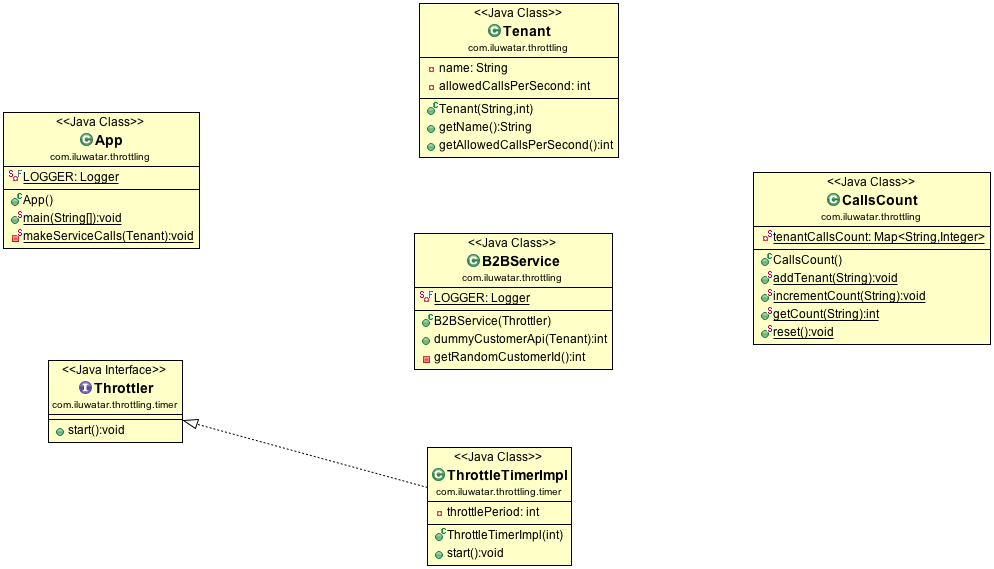
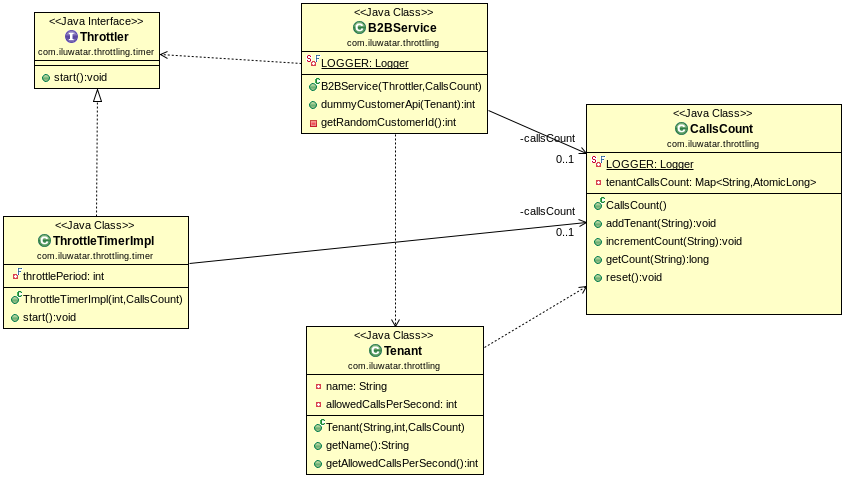
Resolves #643, test cases failed due to global state in CallsCount (#803)
* Resolves #643, test cases failed due to presence of global state in CallsCount. Because AppTest was executed before B2BServiceTest, it scheduled 1 sec timer using ThrottleTimerImpl class. While resetting it used that global CallCount class reset() method, which reset all counters. So that causes thread safety issue because of unintended sharing of application state between test cases, which is not a good practice.

* Updated class diagram png and added UCLS file

diff --git a/throttling/src/main/java/com/iluwatar/throttling/CallsCount.java b/throttling/src/main/java/com/iluwatar/throttling/CallsCount.java
@@ -38,13 +38,13 @@ import java.util.concurrent.atomic.AtomicLong;
 public final class CallsCount {
 
   private static final Logger LOGGER = LoggerFactory.getLogger(CallsCount.class);
-  private static Map<String, AtomicLong> tenantCallsCount = new ConcurrentHashMap<>();
+  private Map<String, AtomicLong> tenantCallsCount = new ConcurrentHashMap<>();
 
   /**
    * Add a new tenant to the map.
    * @param tenantName name of the tenant.
    */
-  public static void addTenant(String tenantName) {
+  public void addTenant(String tenantName) {
     tenantCallsCount.putIfAbsent(tenantName, new AtomicLong(0));
   }
   
@@ -52,7 +52,7 @@ public final class CallsCount {
    * Increment the count of the specified tenant.
    * @param tenantName name of the tenant.
    */
-  public static void incrementCount(String tenantName) {
+  public void incrementCount(String tenantName) {
     tenantCallsCount.get(tenantName).incrementAndGet();
   }
   
@@ -61,14 +61,14 @@ public final class CallsCount {
    * @param tenantName name of the tenant.
    * @return the count of the tenant.
    */
-  public static long getCount(String tenantName) {
+  public long getCount(String tenantName) {
     return tenantCallsCount.get(tenantName).get();
   }
   
   /**
    * Resets the count of all the tenants in the map.
    */
-  public static void reset() {
+  public void reset() {
     LOGGER.debug("Resetting the map.");
     for (Entry<String, AtomicLong> e : tenantCallsCount.entrySet()) {
       tenantCallsCount.put(e.getKey(), new AtomicLong(0));

diff --git a/throttling/src/main/java/com/iluwatar/throttling/App.java b/throttling/src/main/java/com/iluwatar/throttling/App.java
@@ -53,14 +53,14 @@ public class App {
    * @param args main arguments
    */
   public static void main(String[] args) {
-
-    Tenant adidas = new Tenant("Adidas", 5);
-    Tenant nike = new Tenant("Nike", 6);
+    CallsCount callsCount = new CallsCount();
+    Tenant adidas = new Tenant("Adidas", 5, callsCount);
+    Tenant nike = new Tenant("Nike", 6, callsCount);
 
     ExecutorService executorService = Executors.newFixedThreadPool(2);
     
-    executorService.execute(() -> makeServiceCalls(adidas));
-    executorService.execute(() -> makeServiceCalls(nike));
+    executorService.execute(() -> makeServiceCalls(adidas, callsCount));
+    executorService.execute(() -> makeServiceCalls(nike, callsCount));
     
     executorService.shutdown();
     try {
@@ -73,9 +73,9 @@ public class App {
   /**
    * Make calls to the B2BService dummy API
    */
-  private static void makeServiceCalls(Tenant tenant) {
-    Throttler timer = new ThrottleTimerImpl(10);
-    B2BService service = new B2BService(timer);
+  private static void makeServiceCalls(Tenant tenant, CallsCount callsCount) {
+    Throttler timer = new ThrottleTimerImpl(10, callsCount);
+    B2BService service = new B2BService(timer, callsCount);
     for (int i = 0; i < 20; i++) {
       service.dummyCustomerApi(tenant);
 //    Sleep is introduced to keep the output in check and easy to view and analyze the results.

diff --git a/throttling/src/main/java/com/iluwatar/throttling/B2BService.java b/throttling/src/main/java/com/iluwatar/throttling/B2BService.java
@@ -35,8 +35,10 @@ import java.util.concurrent.ThreadLocalRandom;
 class B2BService {
 
   private static final Logger LOGGER = LoggerFactory.getLogger(B2BService.class);
+  private final CallsCount callsCount;
 
-  public B2BService(Throttler timer) {
+  public B2BService(Throttler timer, CallsCount callsCount) {
+    this.callsCount = callsCount;
     timer.start();
   }
 
@@ -46,13 +48,13 @@ class B2BService {
    */
   public int dummyCustomerApi(Tenant tenant) {
     String tenantName = tenant.getName();
-    long count = CallsCount.getCount(tenantName);
+    long count = callsCount.getCount(tenantName);
     LOGGER.debug("Counter for {} : {} ", tenant.getName(), count);
     if (count >= tenant.getAllowedCallsPerSecond()) {
       LOGGER.error("API access per second limit reached for: {}", tenantName);
       return -1;
     }
-    CallsCount.incrementCount(tenantName);
+    callsCount.incrementCount(tenantName);
     return getRandomCustomerId();
   }
 

diff --git a/throttling/src/test/java/com/iluwatar/throttling/B2BServiceTest.java b/throttling/src/test/java/com/iluwatar/throttling/B2BServiceTest.java
@@ -33,18 +33,19 @@ import static org.junit.jupiter.api.Assertions.assertEquals;
  */
 public class B2BServiceTest {
 
-  @Disabled
+  private CallsCount callsCount = new CallsCount();
+
   @Test
   public void dummyCustomerApiTest() {
-    Tenant tenant = new Tenant("testTenant", 2);
+    Tenant tenant = new Tenant("testTenant", 2, callsCount);
     // In order to assure that throttling limits will not be reset, we use an empty throttling implementation
     Throttler timer = () -> { };
-    B2BService service = new B2BService(timer);
+    B2BService service = new B2BService(timer, callsCount);
 
     for (int i = 0; i < 5; i++) {
       service.dummyCustomerApi(tenant);
     }
-    long counter = CallsCount.getCount(tenant.getName());
+    long counter = callsCount.getCount(tenant.getName());
     assertEquals(2, counter, "Counter limit must be reached");
   }
 }

diff --git a/throttling/src/main/java/com/iluwatar/throttling/timer/ThrottleTimerImpl.java b/throttling/src/main/java/com/iluwatar/throttling/timer/ThrottleTimerImpl.java
@@ -37,10 +37,12 @@ import com.iluwatar.throttling.CallsCount;
  */
 public class ThrottleTimerImpl implements Throttler {
 
-  private int throttlePeriod;
-  
-  public ThrottleTimerImpl(int throttlePeriod) {
+  private final int throttlePeriod;
+  private final CallsCount callsCount;
+
+  public ThrottleTimerImpl(int throttlePeriod, CallsCount callsCount) {
     this.throttlePeriod = throttlePeriod;
+    this.callsCount = callsCount;
   }
   
   /**
@@ -51,7 +53,7 @@ public class ThrottleTimerImpl implements Throttler {
     new Timer(true).schedule(new TimerTask() {
       @Override
       public void run() {
-        CallsCount.reset();
+        callsCount.reset();
       }
     }, 0, throttlePeriod);
   }

diff --git a/throttling/src/main/java/com/iluwatar/throttling/Tenant.java b/throttling/src/main/java/com/iluwatar/throttling/Tenant.java
@@ -38,13 +38,13 @@ public class Tenant {
    * @param allowedCallsPerSecond The number of calls allowed for a particular tenant.
    * @throws InvalidParameterException If number of calls is less than 0, throws exception.
    */
-  public Tenant(String name, int allowedCallsPerSecond) {
+  public Tenant(String name, int allowedCallsPerSecond, CallsCount callsCount) {
     if (allowedCallsPerSecond < 0) {
       throw new InvalidParameterException("Number of calls less than 0 not allowed");
     }
     this.name = name;
     this.allowedCallsPerSecond = allowedCallsPerSecond;
-    CallsCount.addTenant(name);
+    callsCount.addTenant(name);
   }
 
   public String getName() {

diff --git a/throttling/src/test/java/com/iluwatar/throttling/TenantTest.java b/throttling/src/test/java/com/iluwatar/throttling/TenantTest.java
@@ -36,7 +36,7 @@ public class TenantTest {
   @Test
   public void constructorTest() {
     assertThrows(InvalidParameterException.class, () -> {
-      Tenant tenant = new Tenant("FailTenant", -1);
+      Tenant tenant = new Tenant("FailTenant", -1, new CallsCount());
     });
   }
 }
